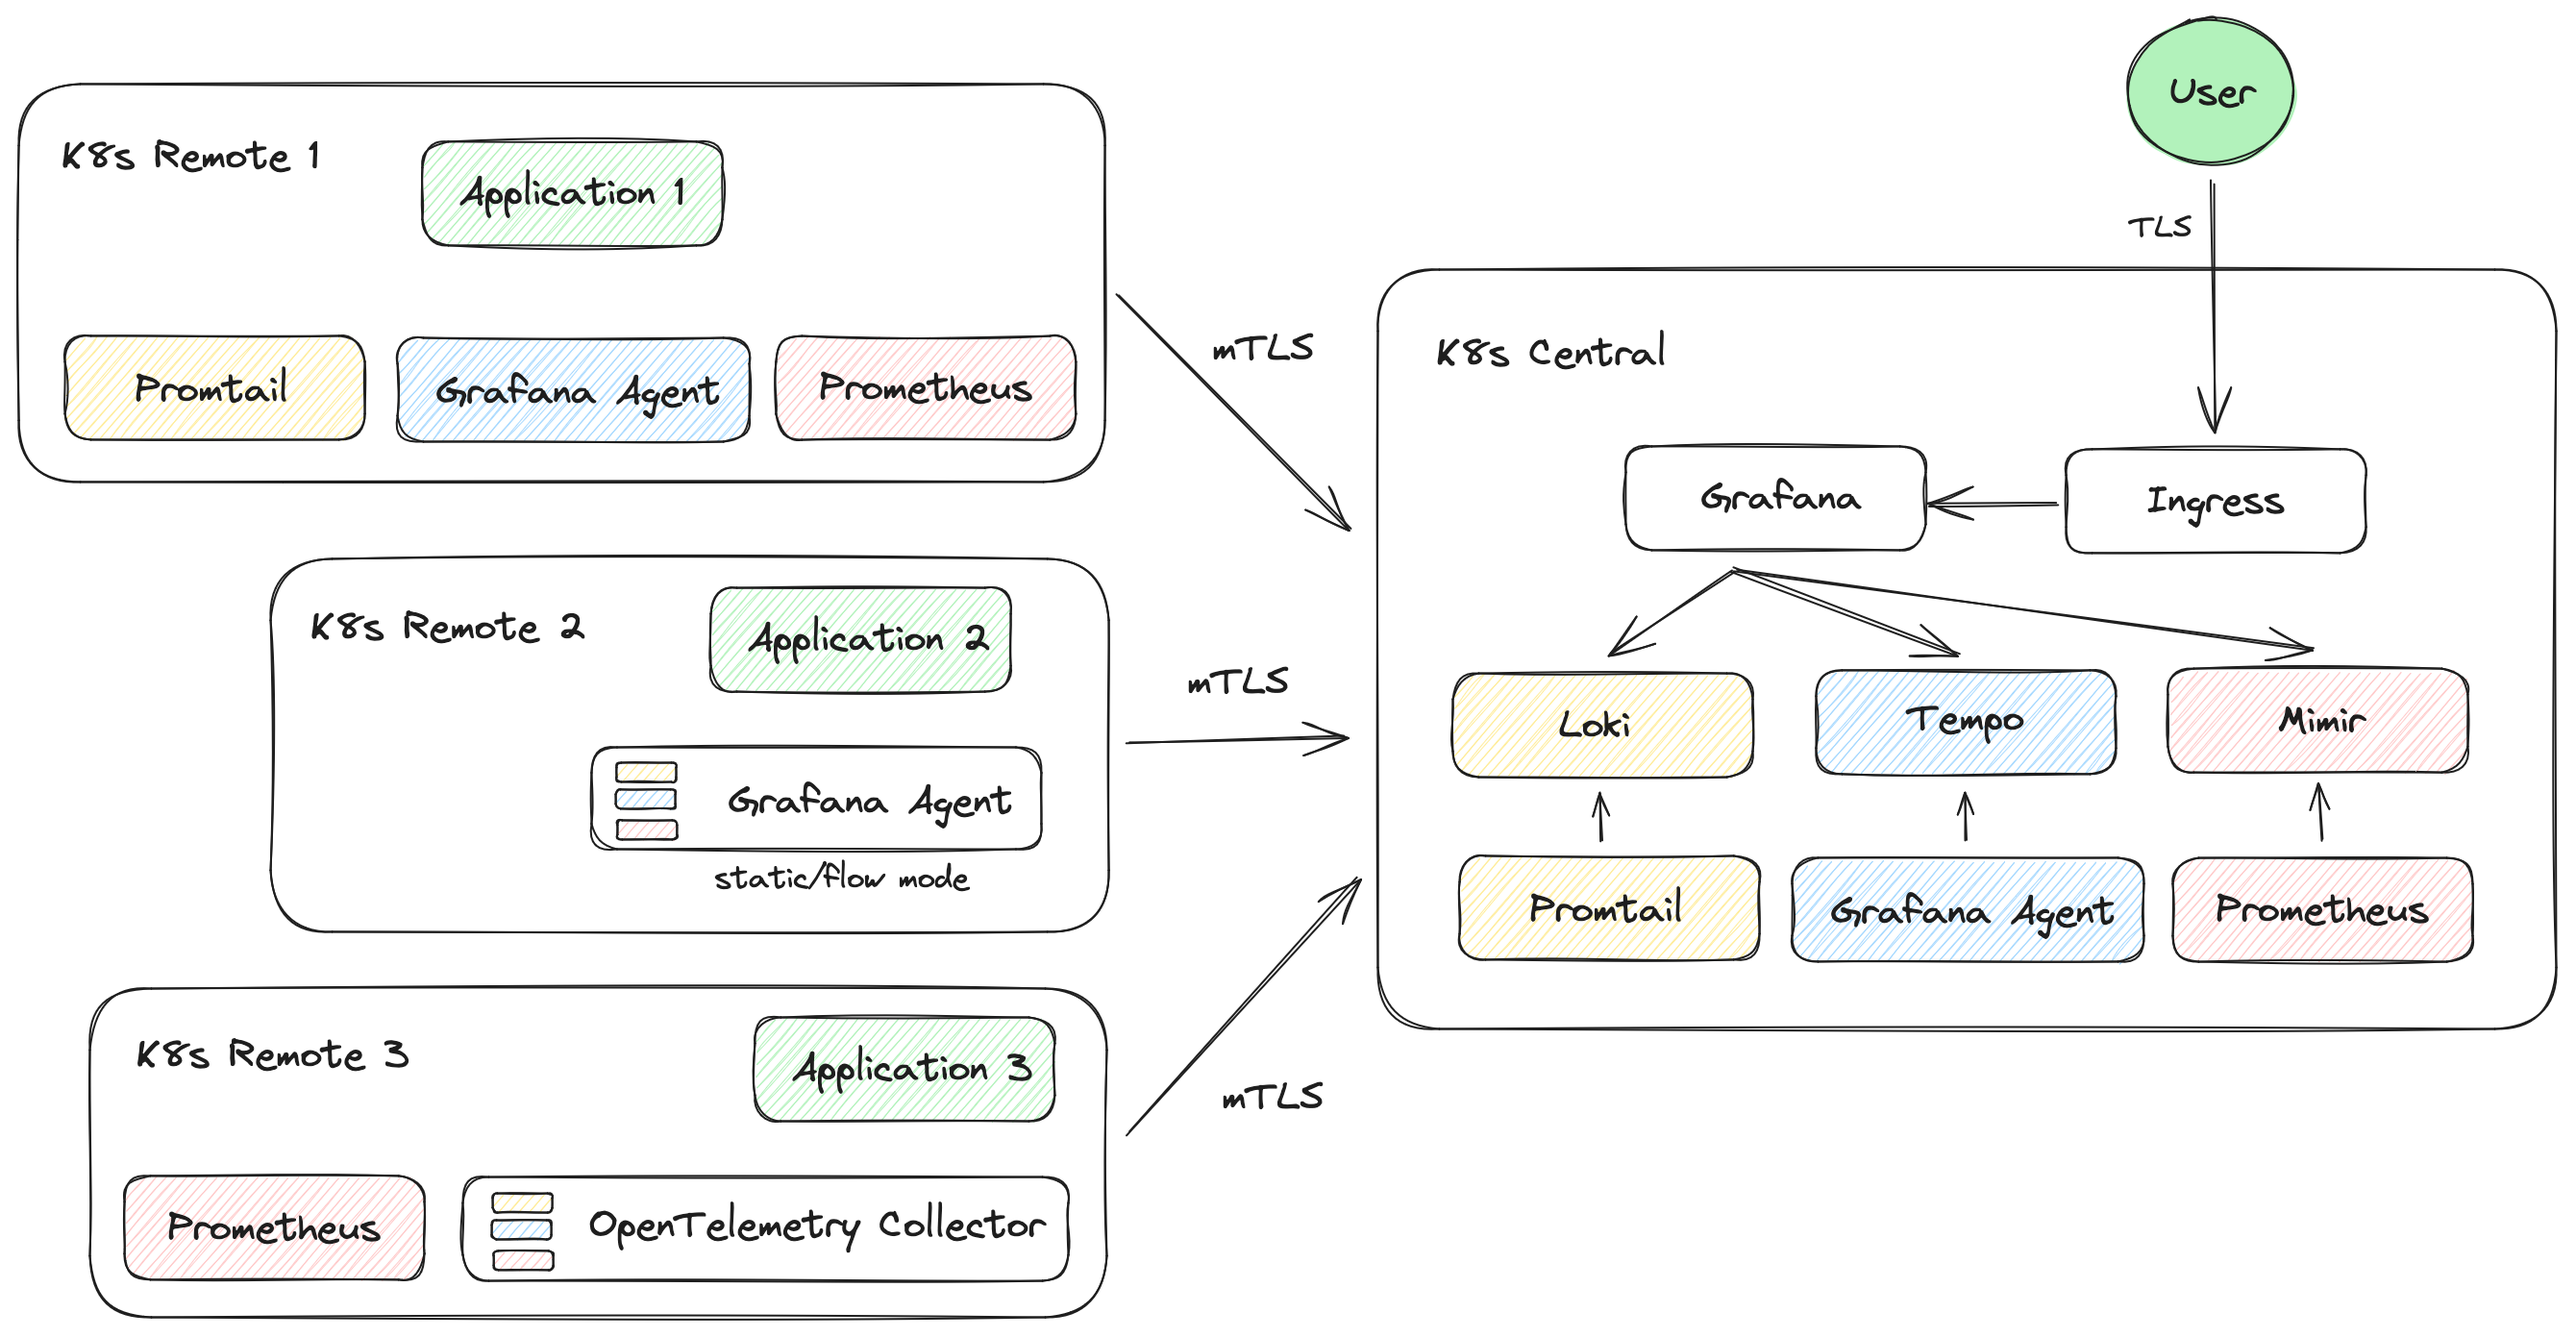
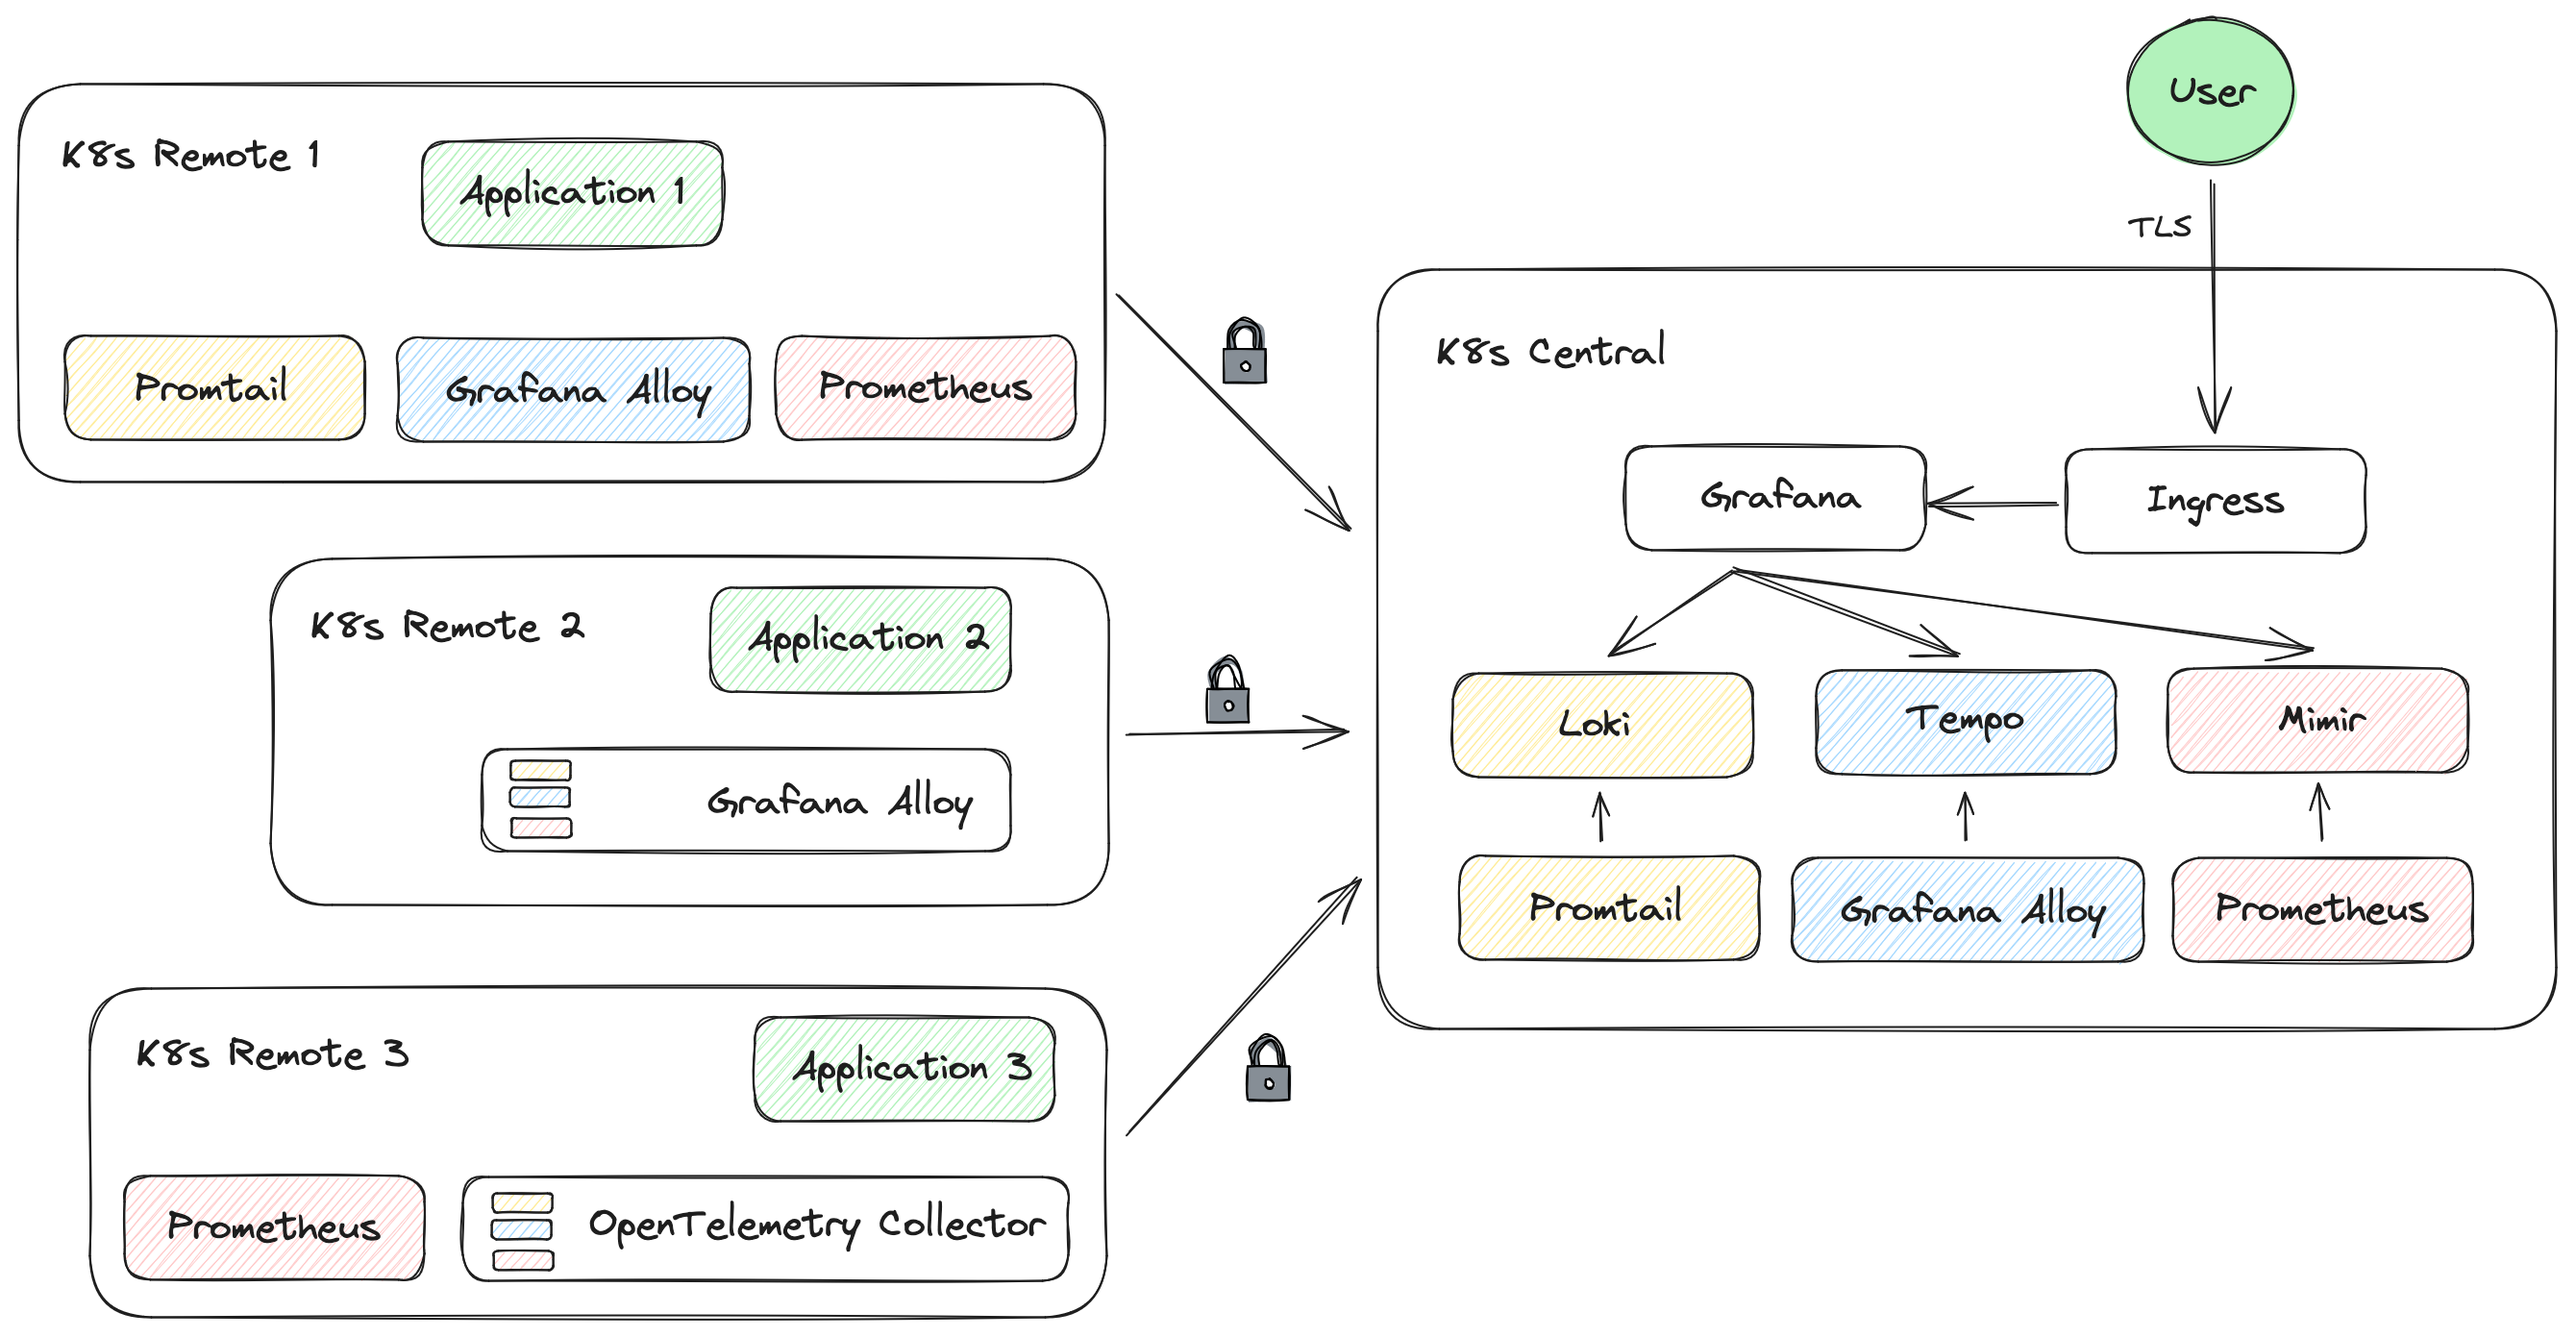
Replace Grafana Agent with Grafana Alloy.

diff --git a/README.md b/README.md
@@ -1,8 +1,8 @@
 # LGTM PoC
 
-In the world of Kubernetes, Prometheus is considered the best tool to monitor the cluster and all its running components. Microservices, specifically those written in Go, can expose their metrics in Prometheus format. Additionally, there are numerous exporters available for applications that cannot natively do so. Therefore, Mimir is the ideal way to consolidate metrics from multiple Kubernetes clusters along with the applications running on each of them.
+In the world of Kubernetes, Prometheus is considered the best tool to monitor the cluster and all its running components. Microservices, specifically those written in Go, can expose their metrics in Prometheus format. Additionally, there are numerous exporters available for applications that cannot natively do so. Therefore, [Mimir](https://grafana.com/docs/mimir/latest/) is the ideal way to consolidate metrics from multiple Kubernetes clusters along with the applications running on each of them.
 
-When it comes to log aggregation solutions, Loki is a much simpler and easier-to-manage option compared to the traditional ELK stack. Similarly, Tempo is the best choice for traces due to similar reasons.
+When it comes to log aggregation solutions, [Loki](https://grafana.com/docs/loki/latest/) is a much simpler and easier-to-manage option compared to the traditional ELK stack. Similarly, [Tempo](https://grafana.com/docs/tempo/latest/) is the best choice for traces due to similar reasons.
 
 ## Architecture
 
@@ -12,15 +12,15 @@ We have a central cluster running Grafana's LGTM stack with Linkerd on Kubernete
 
 The remote clusters show different possibilities for deploying the solution.
 
-In the first scenario, we have Prometheus collecting data from the Kubernetes clusters and the applications, and it uses the Remote Write API to forward data to Mimir (via Linkerd MC). Similarly, we have Promtail for logs (forwarding data to central Loki) and Grafana Agent for traces (forwarding data to central Tempo).
+In the first scenario, we have Prometheus collecting data from the Kubernetes clusters and the applications, and it uses the Remote Write API to forward data to Mimir (via Linkerd MC). Similarly, we have [Promtail](https://grafana.com/docs/loki/latest/send-data/promtail/) for logs (forwarding data to central Loki) and [Grafana Alloy](https://grafana.com/docs/alloy/latest/) for traces (forwarding data to central Tempo).
 
-In the second scenario, we have Grafana Agent either on [static](https://grafana.com/docs/agent/latest/static/) or [flow](https://grafana.com/docs/agent/latest/flow/) mode handling all the observability data (metrics, logs, and traces) and forward it to the LGTM stack.
+In the second scenario, we have Grafana Alloy mode handling all the observability data (metrics, logs, and traces) and forward it to the LGTM stack.
 
 In the third scenario, we have Prometheus handling the cluster metrics and the [OpenTelemetry Collector](https://opentelemetry.io/docs/collector/) handling metrics, logs, and traces received via OTLP from the applications running in the cluster and forwarding the data to the central LGTM stack.
 
 Each cluster (including the central one) will be a tenant on Mimir, Loki, and Tempo to separate the data from each other.
 
-Finally, on the central cluster, we have Prometheus collecting metrics and sending them to the local Mimir via Remote Write API, Promtail doing the same for logs to Loki, and Grafana Agent for traces to Tempo. Technically speaking, we don't need Grafana Agent on the central cluster as Tempo is running there, but it is deployed for consistency, or if you eventually need to perform advanced tasks like [Tail-based sampling](https://grafana.com/docs/tempo/latest/configuration/grafana-agent/tail-based-sampling/).
+Finally, on the central cluster, we have Prometheus collecting metrics and sending them to the local Mimir via Remote Write API, Promtail doing the same for logs to Loki, and Grafana Alloy for traces to Tempo. Technically speaking, we don't need Grafana Alloy on the central cluster as Tempo is running there, but it is deployed for consistency, or if you eventually need to perform advanced tasks like [Tail-based sampling](https://grafana.com/docs/tempo/latest/configuration/grafana-agent/tail-based-sampling/).
 
 Promtail is deployed as a `DaemonSet` to forward logs to Loki.
 
